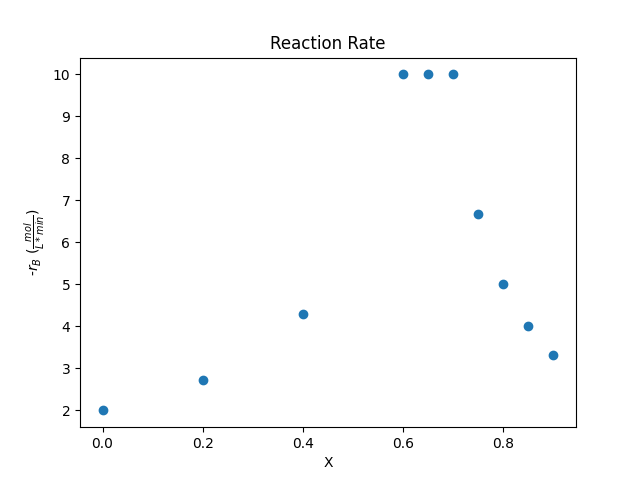
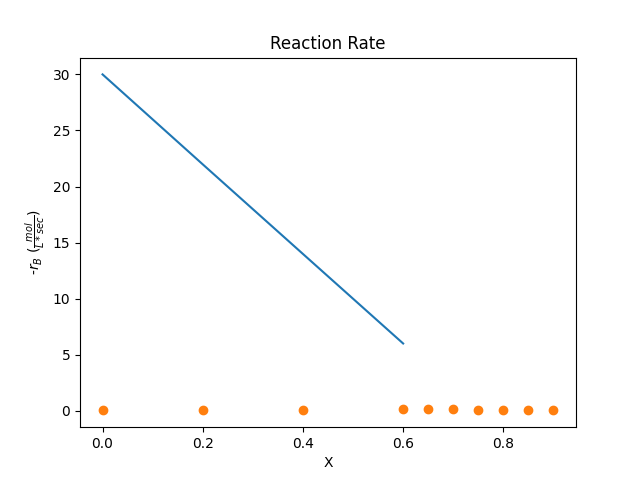
d

diff --git a/Spring_2022/chemRxnEng/HW1_2.py b/Spring_2022/chemRxnEng/HW1_2.py
@@ -2,16 +2,26 @@ import matplotlib.pyplot as plt
 import numpy as np
 
 x = np.array([0,.2,.4,.6,.65,.7,.75,.8,.85,.9])
-r = np.array([2,2.73,4.29,10,10,10,6.67,5,4,3.33])
+r = np.array([2,2.73,4.29,10,10,10,6.67,5,4,3.33])/60
 FA0 = 1
+def full():
+    plt.plot(x,r,'o')
+    plt.title('Reaction Rate')
+    plt.xlabel('X')
+    plt.ylabel(''.join(['-$r_B$ ','(',r'$\frac{mol}{L*sec}$',')']))
+    plt.grid()
+    plt.savefig('HW1_2_plot')
 
-# plt.plot(x,r,'o')
-# plt.title('Reaction Rate')
-# plt.xlabel('X')
-# plt.ylabel(''.join(['-$r_B$ ','(',r'$\frac{mol}{L*min}$',')']))
 
-# plt.savefig('HW1_2_plot')
+def part():
 
-
-plt.plot(x[:4],FA0/r[:4])
+    plt.plot(x[:4],FA0/r[:4])
+    plt.title('Reaction Rate')
+    plt.xlabel('X')
+    plt.grid()
+    plt.ylabel(''.join([r'$\frac{F_{A_0}}{-r_B}$',' (',r'$\frac{mol}{L*sec}$',')']))
+    plt.savefig('HW1_2_plot2')
+    
+part()
+full()
 
